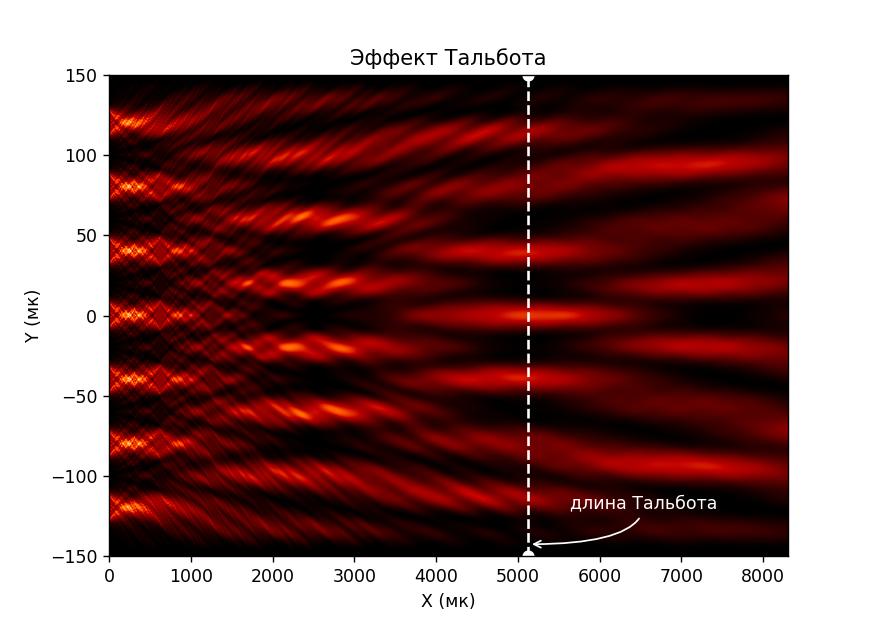
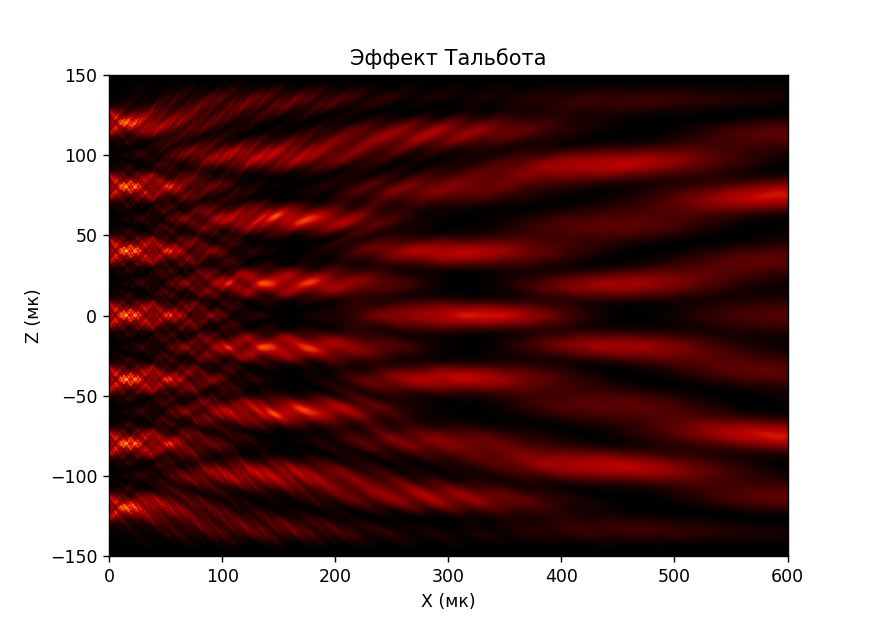
ADD: get_front() function, which draw front image of talbot_effect. It saves to file with config.picture_front_name name. + pudge.jpg

diff --git a/main.py b/main.py
@@ -1,14 +1,39 @@
-from diffractio import plt, np, um, mm
+from diffractio import plt, np, um, mm, degrees
+from diffractio.scalar_fields_XY import Scalar_field_XY
 from diffractio.scalar_masks_X import Scalar_mask_X
+from diffractio.scalar_masks_XY import Scalar_mask_XY
 from diffractio.scalar_sources_X import Scalar_source_X
 from diffractio.scalar_fields_XZ import Scalar_field_XZ
+from diffractio.scalar_sources_XY import Scalar_source_XY
 
 from matplotlib import rcParams
+from matplotlib.pyplot import imshow
 
 import config
 
+
 # um - standard diffractio units (not necessary)
 # mm = 1000 * um
+
+def get_front(z_indent):
+    u1 = Scalar_source_XY(x=z, y=x, wavelength=wavelength)
+    u1.plane_wave(A=1)
+
+    t1 = Scalar_mask_XY(x=z, y=x, wavelength=wavelength)
+    # t1.slit(x0=0, size=50 * um, angle=0 * degrees)
+    t1.ronchi_grating(x0=config.phase_shift, period=config.period, fill_factor=0.5)
+
+    u2 = u1 * t1
+    u3 = u2.RS(z=z_indent, new_field=True)
+    u3.draw()
+
+    plt.title('Эффект Тальбота (фронтальное изображение)')
+    plt.xlabel("X (мк)")
+    plt.ylabel("Y (мк)")
+
+    plt.savefig(config.picture_front_name)
+
+
 
 rcParams['figure.figsize'] = (config.picture_resolution_x, config.picture_resolution_y)
 rcParams['figure.dpi'] = config.dpi
@@ -31,10 +56,11 @@ talbot_effect.incident_field(u0 * t)
 talbot_effect.BPM()
 
 talbot_effect.draw(kind='intensity')
+
 plt.title('Эффект Тальбота')
 plt.xlabel("X (мк)")
-plt.ylabel("Y (мк)")
-plt.ylim(-config.plt_x_size, config.plt_x_size)  # in basic world Y axis goes up
+plt.ylabel("Z (мк)")
+plt.ylim(-config.plt_x_size, config.plt_x_size)  # in basic world Z axis goes up
 # but here X axis go up and Z axis go right, so here can be misunderstanding
 
 # Adding to plot a line and a text to show where is Talbot's length
@@ -47,3 +73,5 @@ if config.show_z_talbot:
                  )
 
 plt.savefig(config.picture_name)
+
+get_front(z_talbot)

diff --git a/config.py b/config.py
@@ -20,9 +20,10 @@ plot_resolution_y = int((picture_resolution_y * dpi) / 2) * 2
 
 # --------------------------
 # Modifying for user values
-wavelength = 0.6238          # virtually wave's length
+wavelength = 10          # virtually wave's length
 period = 40                  # period of a grid
 phase_shift = 0
-show_z_talbot = True
+show_z_talbot = False
 
 picture_name = 'output.png'  # result picture's name
+picture_front_name = 'front_output.png'  # result picture's name
